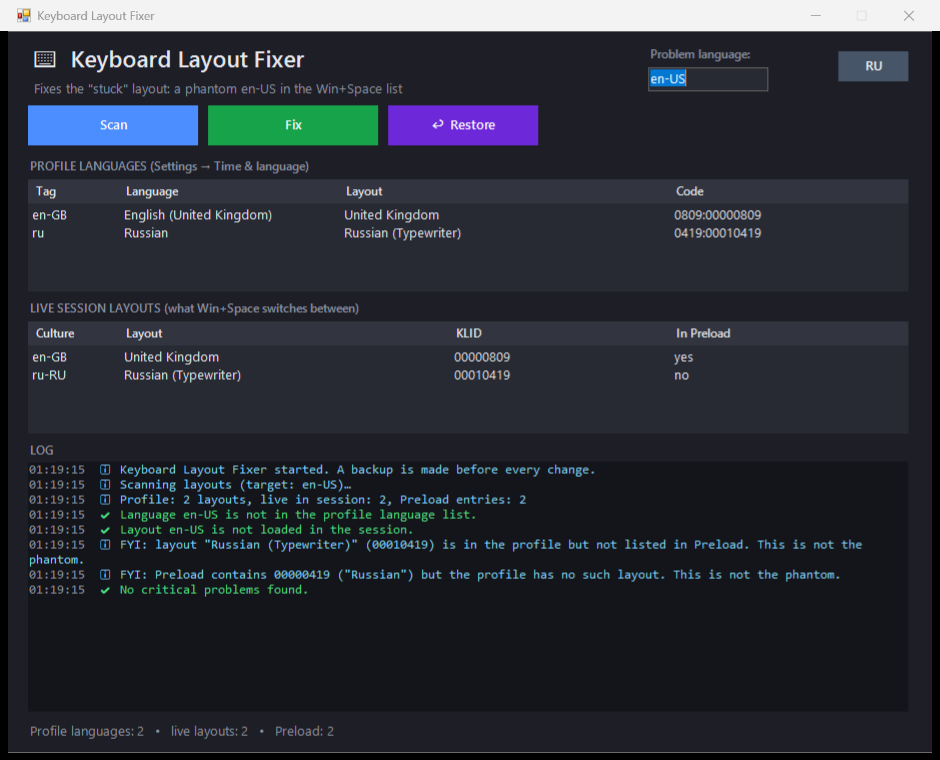
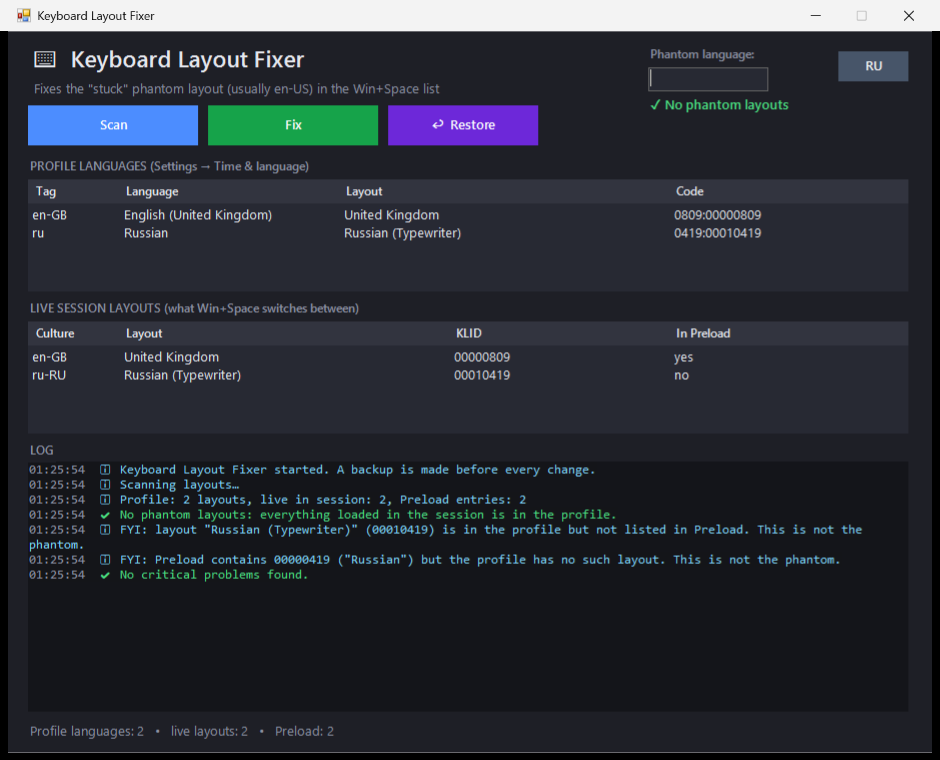
Auto-detect phantom layouts of any language and show a clear status
The phantom language field is now filled from the scan result and shows
a green 'No phantom layouts' status when the session is clean.

diff --git a/README.md b/README.md
@@ -20,8 +20,8 @@ A layout that is loaded in the session but missing from the profile is a *phanto
 
 ## What the tool does
 
-- **Scan** — shows all three lists and flags the phantom in red.
-- **Fix** — backs up your language list, temporarily adds the problem language (default `en-US`) so Windows turns the phantom into a real entry, removes it, verifies the result (retrying if Windows re-adds an empty entry).
+- **Scan** — shows all three lists, flags the phantom in red (any language, not just en-US) and fills in its language tag.
+- **Fix** — backs up your language list, temporarily adds the detected phantom language (usually `en-US`, but any language works) so Windows turns the phantom into a real entry, removes it, verifies the result (retrying if Windows re-adds an empty entry).
 - **Restore** — puts the language list back from the last backup (`backups\*.json`).
 - **RU / EN** — switches the interface language (default follows your Windows UI language).
 
@@ -48,7 +48,8 @@ Command-line options:
 ```powershell
 .\KeyboardFix.ps1 -Lang en            # force UI language (ru | en)
 .\KeyboardFix.ps1 -NoGui              # read-only diagnostics in the console
-.\KeyboardFix.ps1 -Fix -Tag en-US     # console mode: scan, back up, fix, scan again
+.\KeyboardFix.ps1 -Fix               # console mode: scan, back up, fix detected phantoms, scan again
+.\KeyboardFix.ps1 -Fix -Tag de-DE     # ...or force a specific language
 .\KeyboardFix.ps1 -Screenshot out.png # scan and save a PNG of the window (used for docs)
 ```
 
